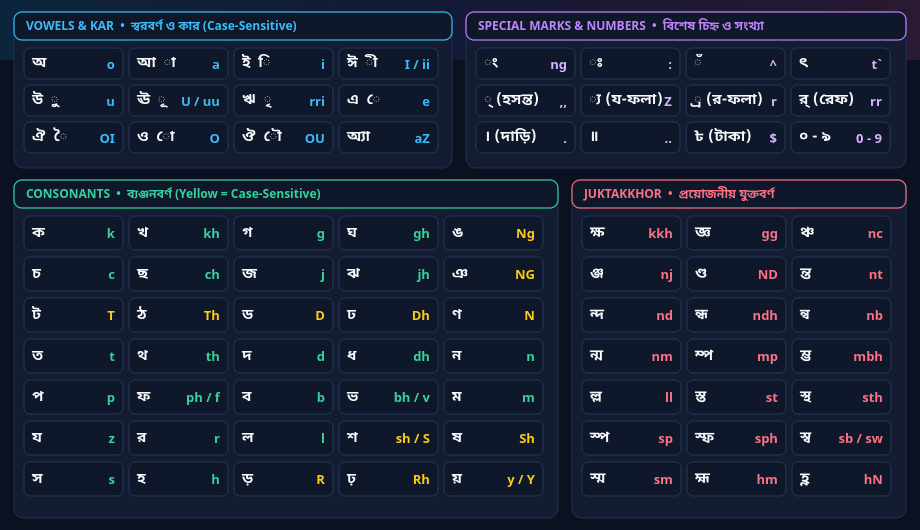
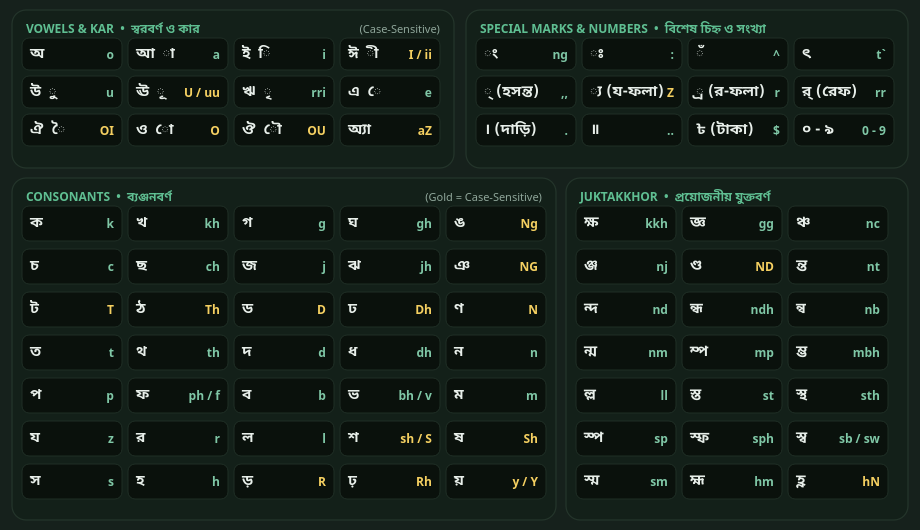
fix(layout-viewer): implement dynamic theme-adaptive Emerald design for KeyMap and Smart Guide

diff --git a/src/frontend/LayoutViewer.cpp b/src/frontend/LayoutViewer.cpp
@@ -62,6 +62,14 @@ void LayoutViewer::applyTheme() {
   ui->viewAltGr->setIcon(QIcon(MatraKiIcons::pixmap(MatraKiIcons::Sparkles, p.accent, 16)));
   ui->buttonAboutLayout->setObjectName("primary");
   ui->buttonAboutLayout->setIcon(QIcon(MatraKiIcons::pixmap(MatraKiIcons::Info, p.onBrand, 16)));
+
+  if (desc.name == "Avro Phonetic") {
+    if (ui->viewAltGr->isChecked()) {
+      on_viewAltGr_clicked();
+    } else {
+      on_viewNormal_clicked();
+    }
+  }
 }
 
 void LayoutViewer::showEvent(QShowEvent *event) {
@@ -123,7 +131,10 @@ void LayoutViewer::on_buttonAboutLayout_clicked() {
 
 void LayoutViewer::on_viewNormal_clicked() {
   if (desc.name == "Avro Phonetic") {
-    QPixmap pix(":/images/avro_keymap_modern.png");
+    const bool dark = ThemeManager::instance().isDark();
+    const QString imgPath = dark ? QStringLiteral(":/images/avro_keymap_dark.png")
+                                 : QStringLiteral(":/images/avro_keymap_light.png");
+    QPixmap pix(imgPath);
     ui->labelImage->setPixmap(pix);
     ui->labelImage->adjustSize();
     this->resize(pix.width() + 36, pix.height() + 98);
@@ -138,7 +149,10 @@ void LayoutViewer::on_viewNormal_clicked() {
 
 void LayoutViewer::on_viewAltGr_clicked() {
   if (desc.name == "Avro Phonetic") {
-    QPixmap pix(":/images/avro_smart_guide.png");
+    const bool dark = ThemeManager::instance().isDark();
+    const QString imgPath = dark ? QStringLiteral(":/images/avro_smart_guide_dark.png")
+                                 : QStringLiteral(":/images/avro_smart_guide_light.png");
+    QPixmap pix(imgPath);
     ui->labelImage->setPixmap(pix);
     ui->labelImage->adjustSize();
     this->resize(pix.width() + 36, pix.height() + 98);
